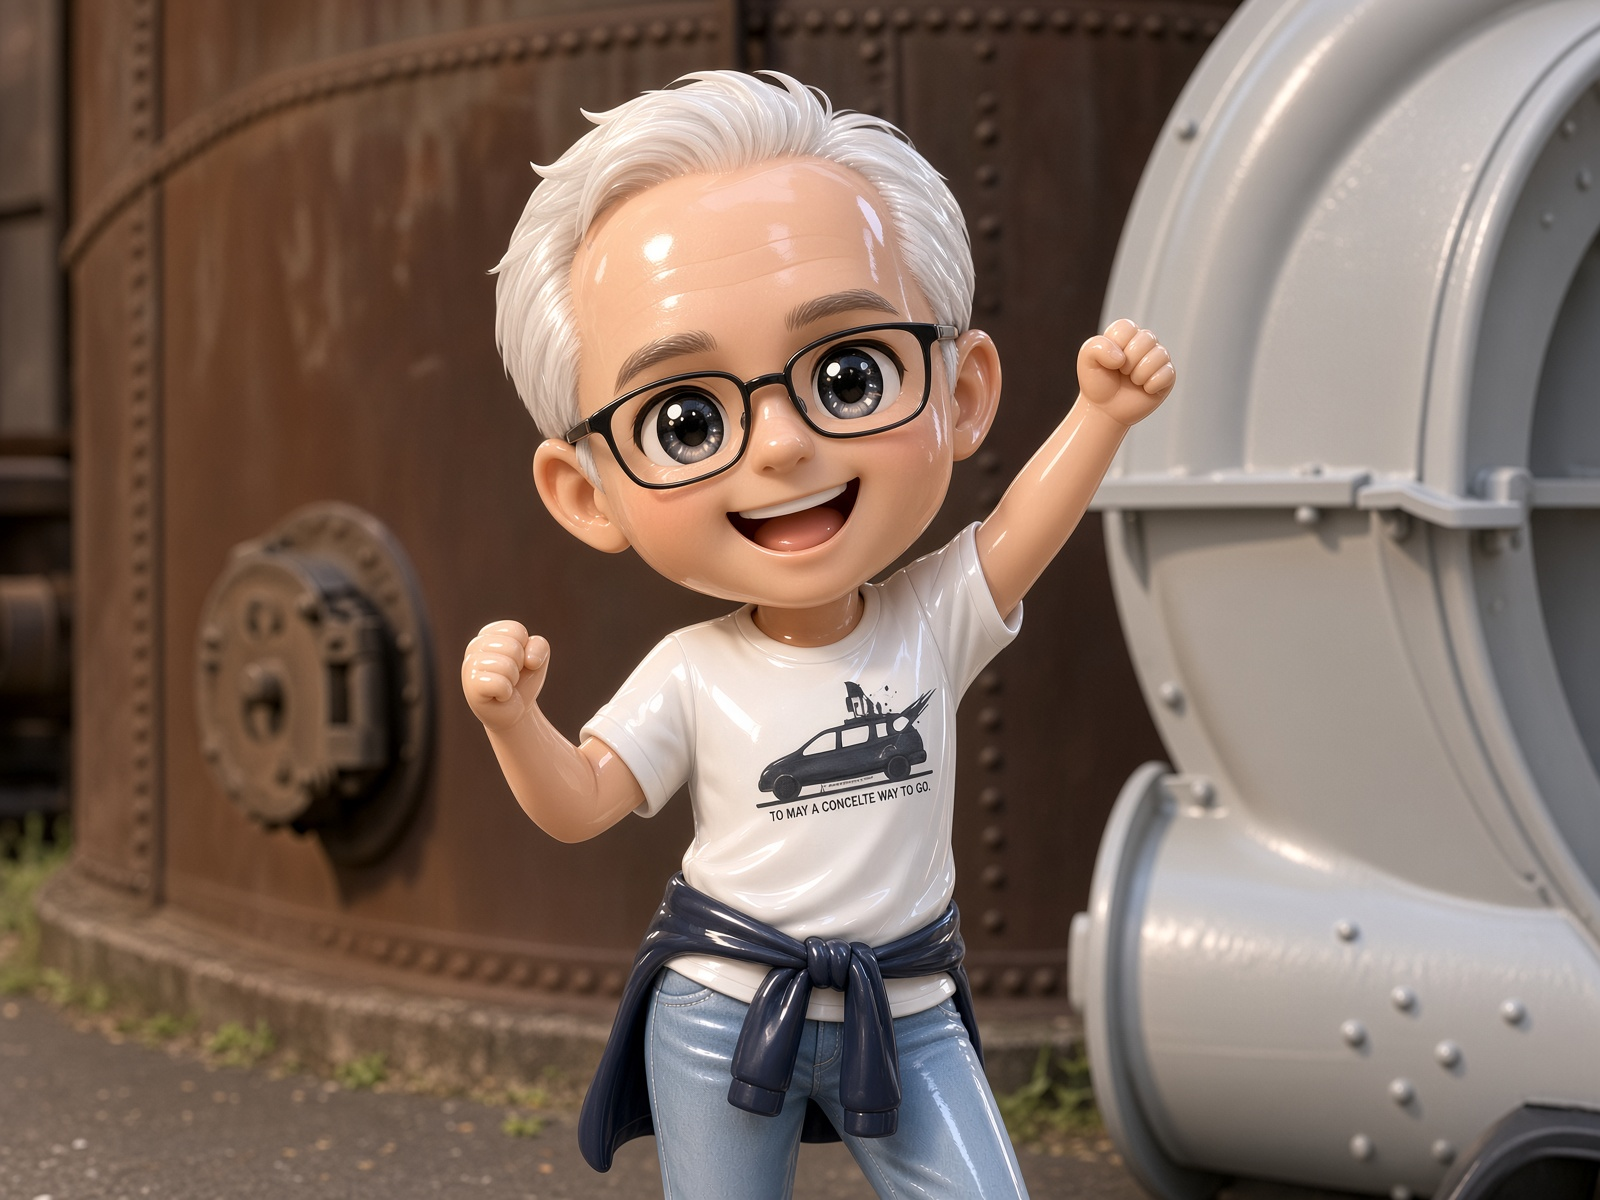
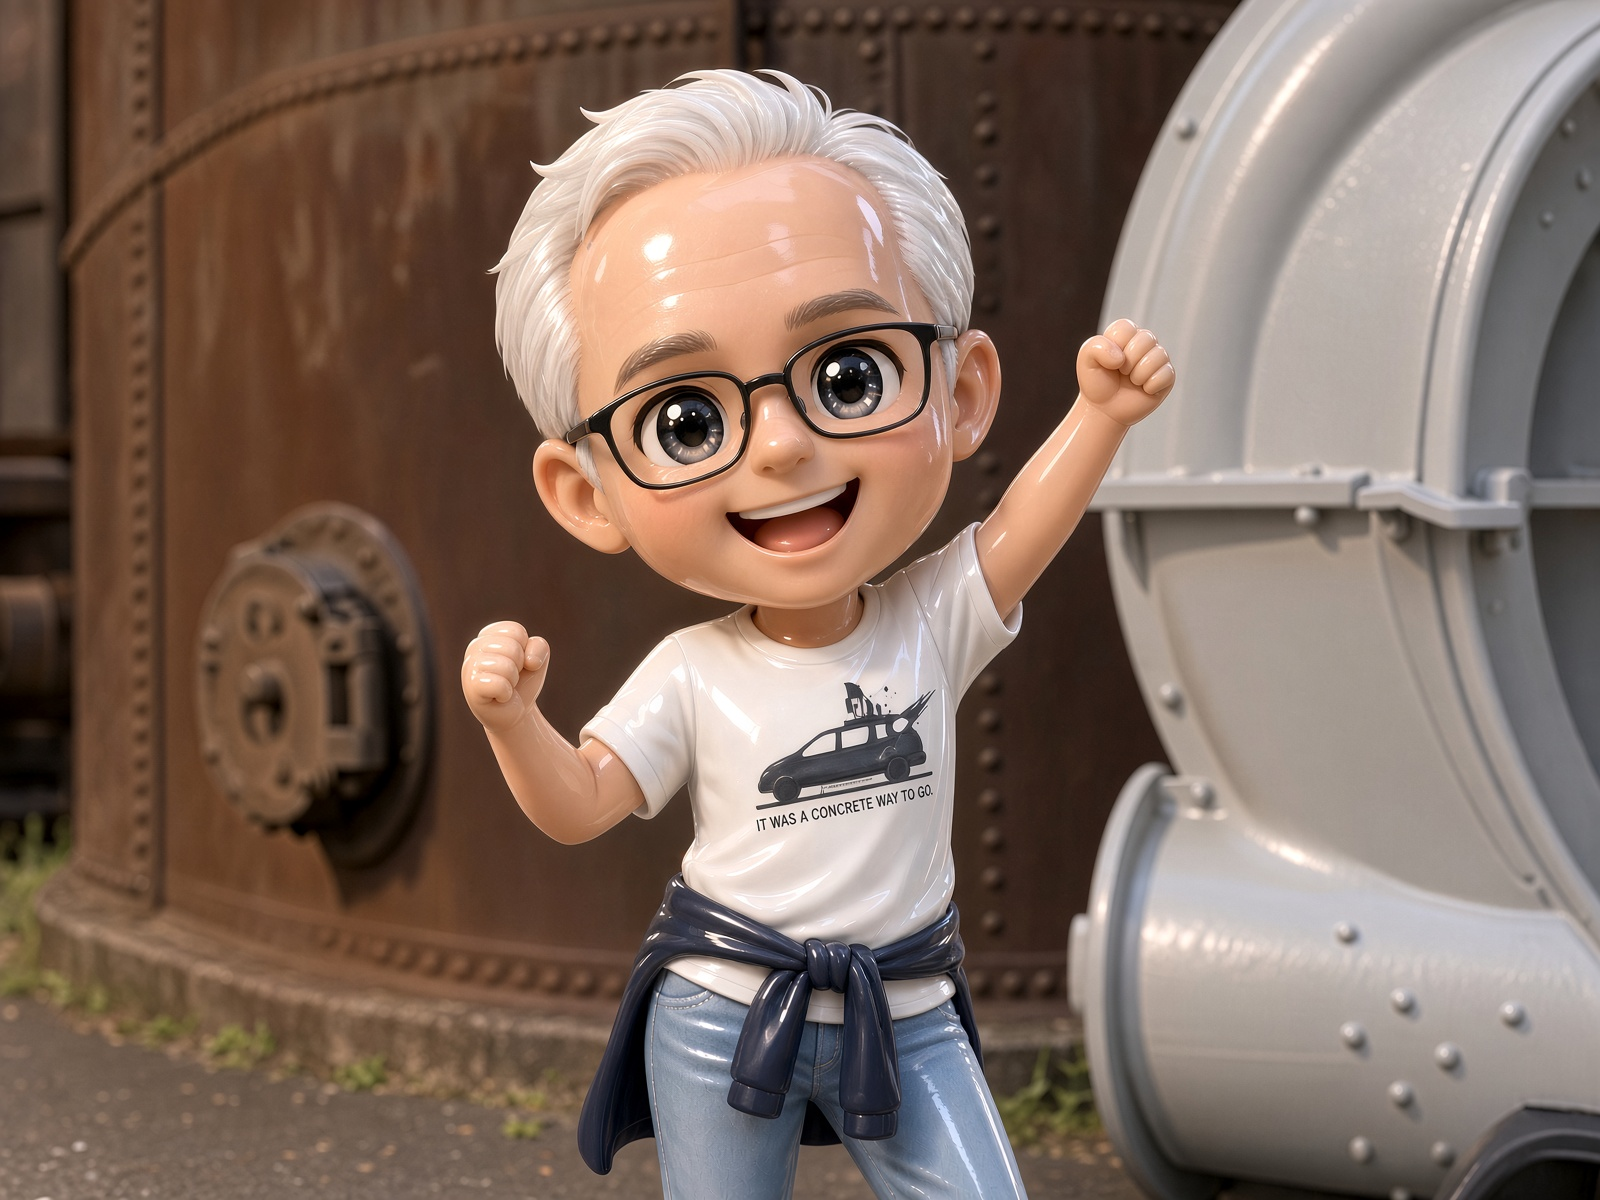
Add Perlin animation to monitor tile

diff --git a/perlin-noise.js b/perlin-noise.js
@@ -29,6 +29,7 @@
     samples = 240,
     animate = false,
     speed = 0.45,
+    showAxis = true,
   } = {}) {
     const svg = document.createElementNS(SVG_NS, "svg");
     svg.setAttribute("viewBox", `0 0 ${width} ${height}`);
@@ -36,13 +37,16 @@
     svg.setAttribute("aria-label", "Liniengrafik einer 1D-Perlin-Noise-Funktion");
     svg.classList.add("perlin-chart");
 
-    const axis = document.createElementNS(SVG_NS, "line");
-    axis.setAttribute("class", "perlin-chart__axis");
-    axis.setAttribute("x1", "0");
-    axis.setAttribute("x2", String(width));
-    axis.setAttribute("y1", String(height / 2));
-    axis.setAttribute("y2", String(height / 2));
-    svg.appendChild(axis);
+    let axis = null;
+    if (showAxis) {
+      axis = document.createElementNS(SVG_NS, "line");
+      axis.setAttribute("class", "perlin-chart__axis");
+      axis.setAttribute("x1", "0");
+      axis.setAttribute("x2", String(width));
+      axis.setAttribute("y1", String(height / 2));
+      axis.setAttribute("y2", String(height / 2));
+      svg.appendChild(axis);
+    }
 
     const line = document.createElementNS(SVG_NS, "polyline");
     line.setAttribute("class", "perlin-chart__line");
@@ -80,9 +84,11 @@
       chartWidth = bounds.width;
       chartHeight = bounds.height;
       svg.setAttribute("viewBox", `0 0 ${chartWidth} ${chartHeight}`);
-      axis.setAttribute("x2", String(chartWidth));
-      axis.setAttribute("y1", String(chartHeight / 2));
-      axis.setAttribute("y2", String(chartHeight / 2));
+      if (axis) {
+        axis.setAttribute("x2", String(chartWidth));
+        axis.setAttribute("y1", String(chartHeight / 2));
+        axis.setAttribute("y2", String(chartHeight / 2));
+      }
       draw(currentOffset);
     }
 

diff --git a/styles.css b/styles.css
@@ -475,6 +475,33 @@ body.night-mode .photo-lightbox__caption {
 .tile--monitor .tile__status {
   font-size: clamp(1.25rem, 2.4vw, 1.55rem);
   font-variant-numeric: tabular-nums;
+  border-top: 0;
+}
+
+.tile--monitor .tile__icon,
+.tile--monitor .tile__body,
+.tile--monitor .tile__status {
+  position: relative;
+  z-index: 1;
+}
+
+.tile__preview--monitor {
+  position: absolute;
+  inset: 0;
+  z-index: 0;
+  width: 100%;
+  height: 100%;
+  margin: 0;
+  pointer-events: none;
+}
+
+.tile__preview--monitor .perlin-chart {
+  color: #d6d6d6;
+}
+
+.tile__preview--monitor .perlin-chart__point {
+  fill: #d6d6d6;
+  stroke: var(--bg-tile);
 }
 
 /* —— Light: Farbkreis + Helligkeit (eine Kachel für alle Streifen) —— */

diff --git a/app.js b/app.js
@@ -155,6 +155,19 @@ function createTile(topic) {
       );
       el.appendChild(preview);
     }
+    if (isMonitor) {
+      const preview = document.createElement("figure");
+      preview.className = "tile__preview tile__preview--monitor";
+      preview.setAttribute("aria-hidden", "true");
+      preview.appendChild(
+        window.TeslaPerlin.createChart({
+          animate: true,
+          height: 420,
+          showAxis: false,
+        })
+      );
+      el.appendChild(preview);
+    }
     if (isMetaballs) {
       const canvas = document.createElement("canvas");
       canvas.className = "metaballs-canvas";
